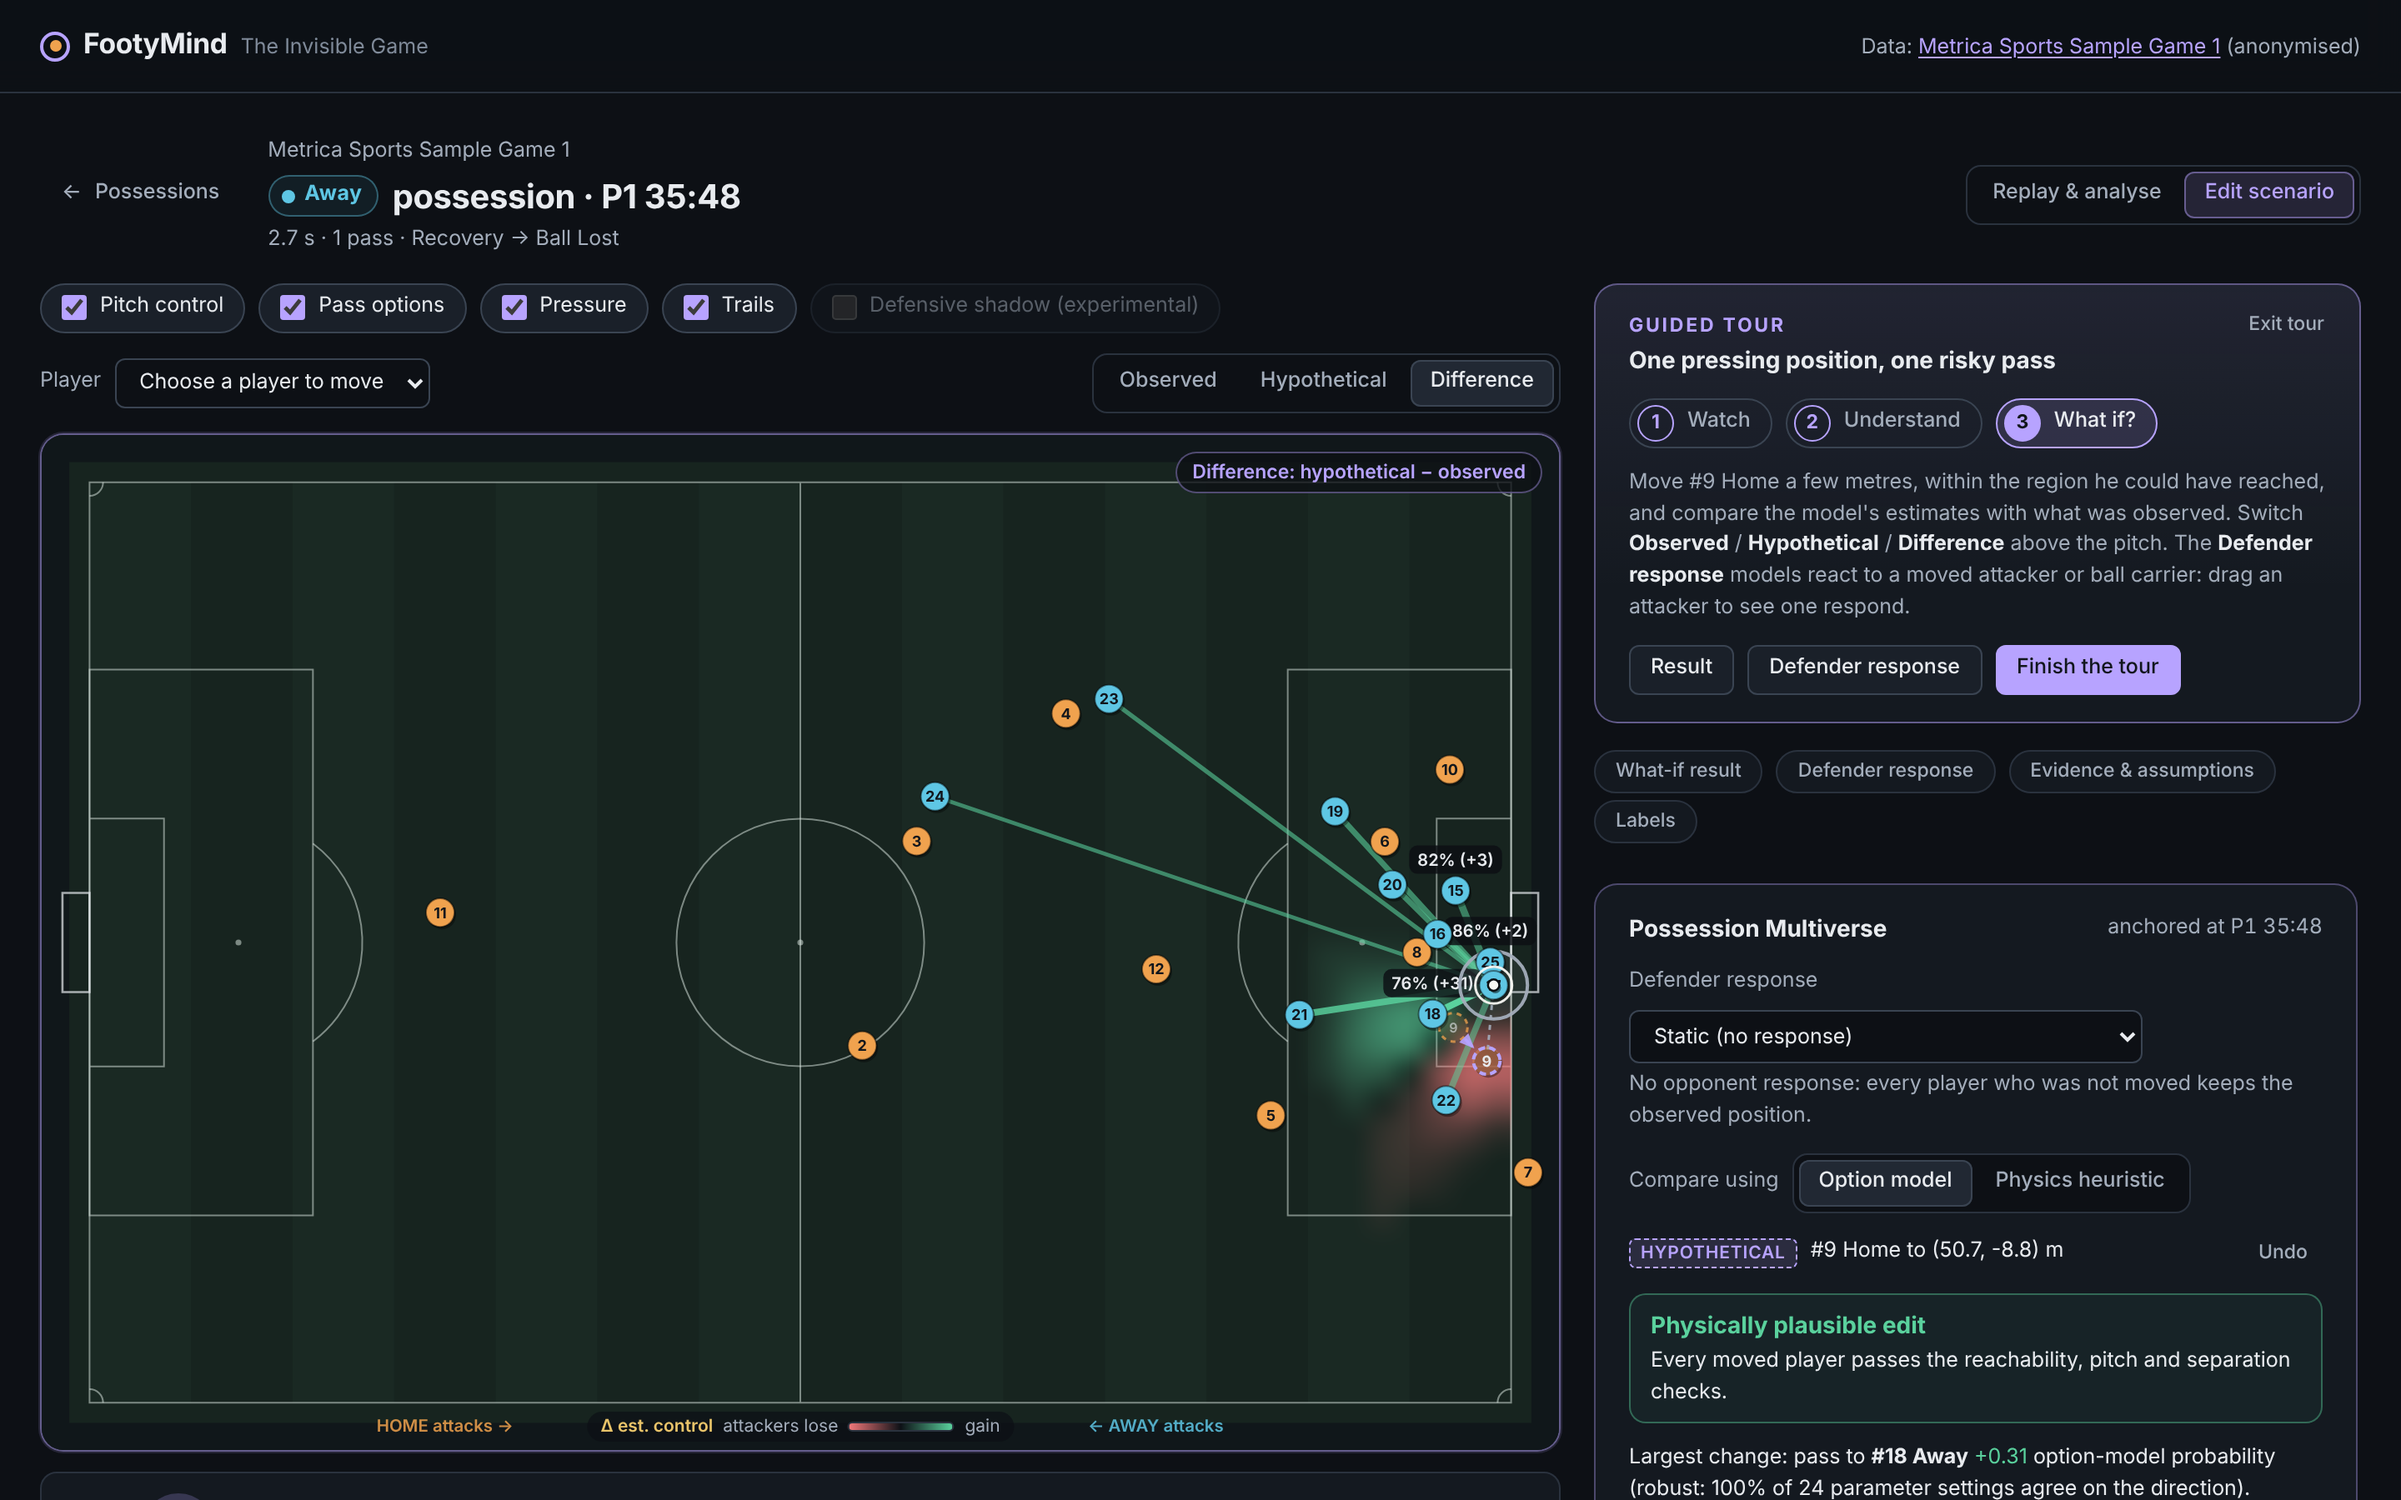
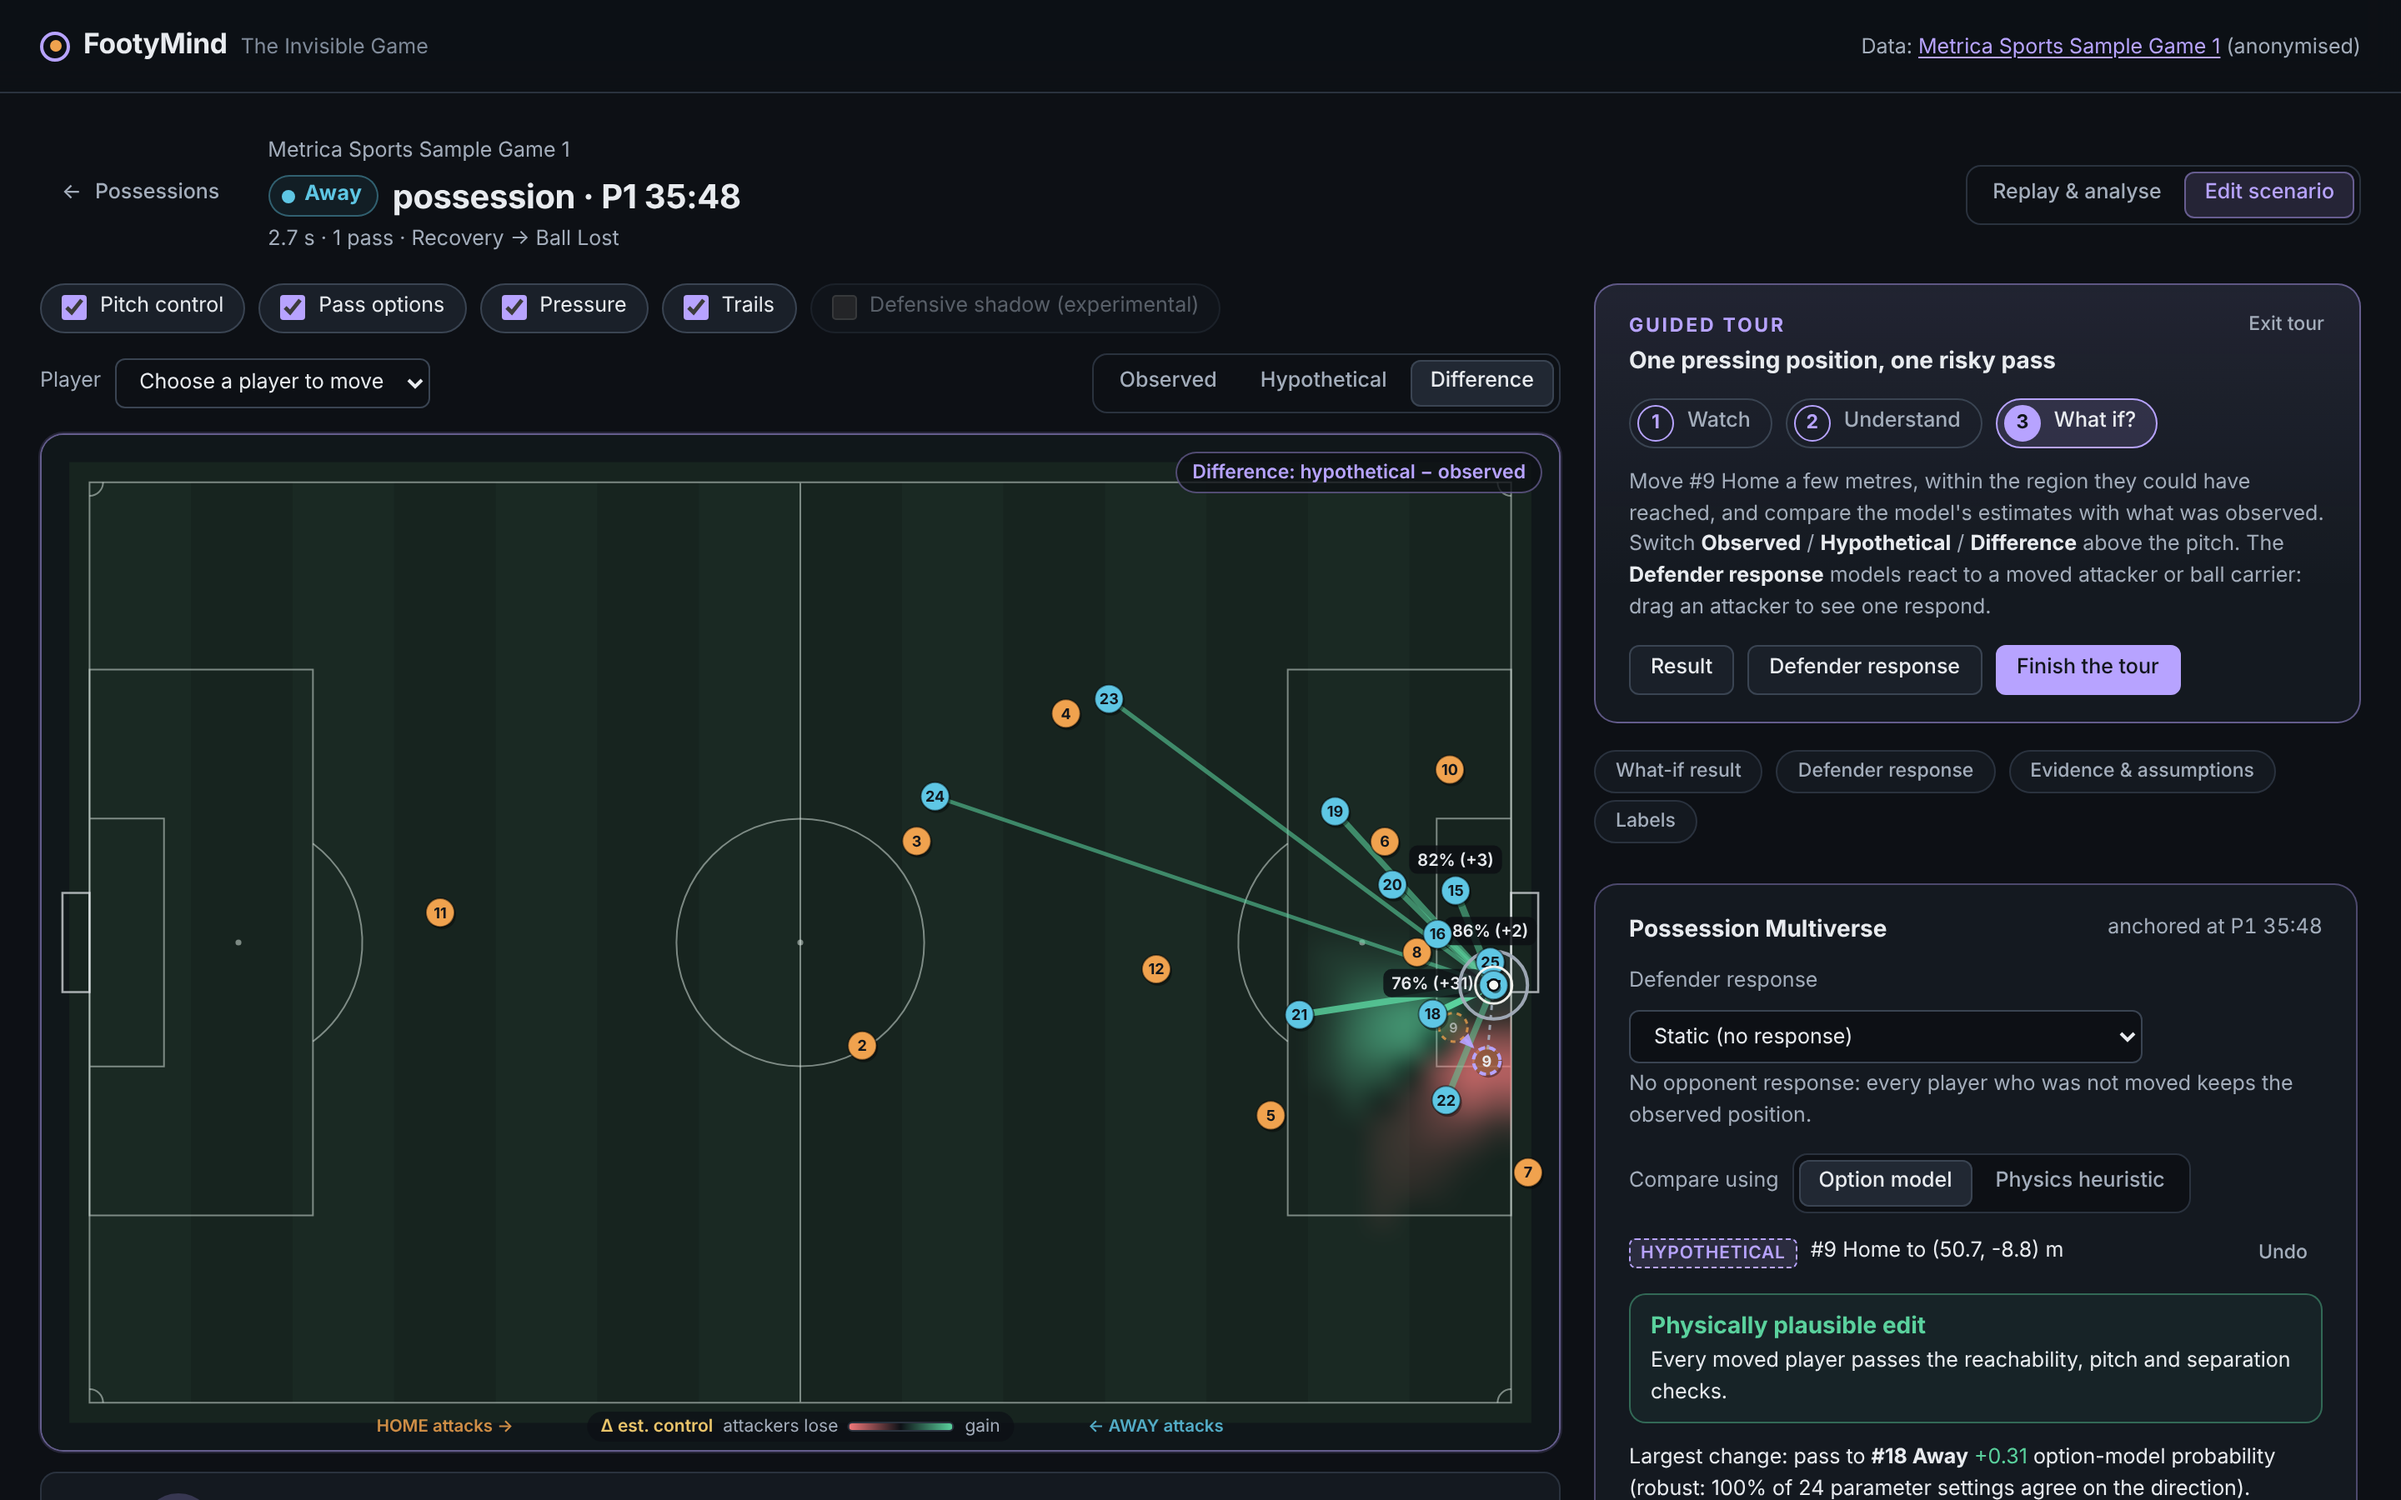
Release verification: clean environment, exact reproduction of C20, licence-clear demo, security checks; refreshed screenshots for the tour copy

Changed region(s): [[0.6875, 0.3111, 0.9688, 0.4044]]

diff --git a/docs/release/VERIFICATION.md b/docs/release/VERIFICATION.md
@@ -106,6 +106,34 @@ automatically on the next start: it keeps answering 503 with the command that fi
 In-process freshness (a bundle or index replaced while the server runs, a stale bundle never
 served silently, healthy matches staying available) is covered by `tests/test_freshness.py`.
 
+## 1.0 release verification (2026-11-14)
+
+**Clean environment.** A fresh clone of the branch (at 9ea2241) with an empty
+`FOOTYMIND_DATA_DIR` ran the README's minimal path as written: `uv sync`, `footymind download
+metrica` (three games fetched from GitHub and SHA-256 verified), `footymind ingest metrica`,
+`footymind build-similarity-index --provider metrica` (32 s), `uv run pytest -q` (317 passed,
+14 skipped: the SkillCorner tests, whose data was not downloaded), `npm ci` and
+`npm run build`; then `footymind serve` served the built lab, `smoke_api.py --require-similar`
+passed for all three games, and every Metrica-only Playwright flow test passed (8/8) against
+that server. The uv and npm package caches of the machine were used (they only change speed);
+no data, model or index came from the development checkout.
+
+**Representative experiment reproduction.** `footymind experiment
+experiments/configs/pass_outcome_v3.json` (C20) re-run at 259c0be on pipeline-v3 bundles, into
+a scratch `FOOTYMIND_EXPERIMENTS_DIR`: same 3,593 passes and raw-data checksums, all 9
+comparisons and all 16 pooled metrics identical to the committed result (2131084) to the last
+digit.
+
+**Licence-clear demo configuration.** The entrypoint with
+`FOOTYMIND_SOURCES="skillcorner-1874553 skillcorner-1899585 skillcorner-2017461"` on an empty
+data directory: download, ingest, index, `smoke_api.py --require-similar` passed, and the lab
+landing loaded with no console errors or failed requests (`DATA_LICENSES.md`).
+
+**Security.** 130 hostile GET requests (path traversal in ids, NUL bytes, 5,000-character ids,
+out-of-range numbers): no 500, no path or traceback in any body. `pip-audit` on the locked
+runtime and dev dependencies: no known vulnerabilities. `npm audit --omit=dev`: 0; the 7
+moderate advisories are in dev-only lint tooling. No secrets in the repository; no pickles.
+
 ## Clean-setup findings (fresh clone, README commands as written)
 
 | Step | Finding | Fix |
